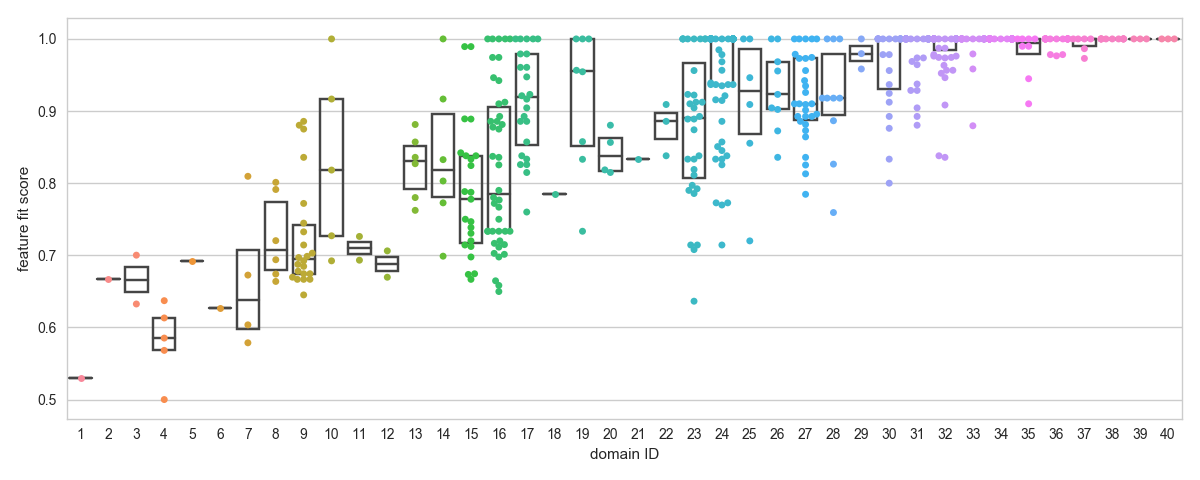
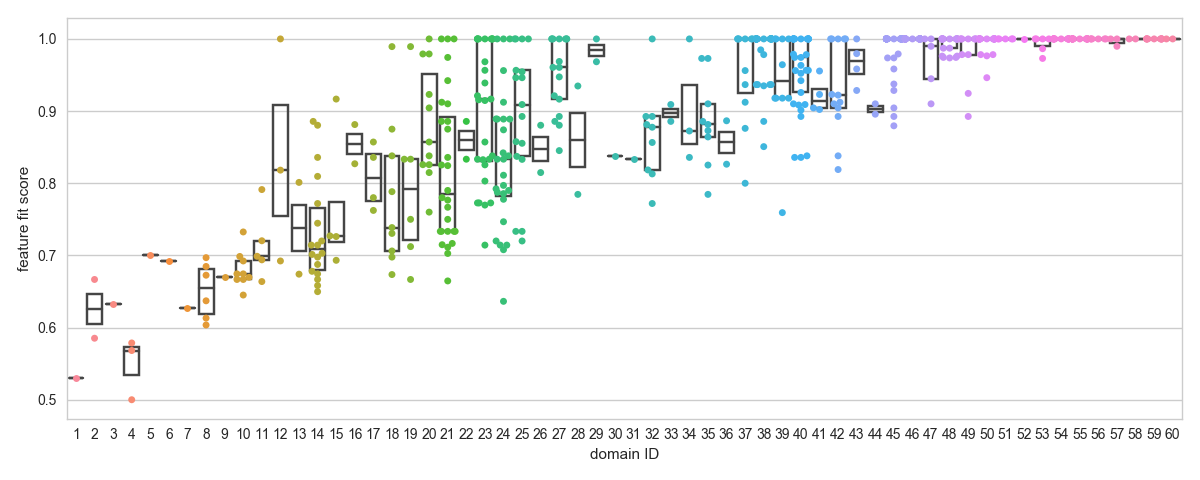
Edited axis labels

diff --git a/subgraphs/feature_fit.py b/subgraphs/feature_fit.py
@@ -45,7 +45,7 @@ elif PIVOT == "cc":
 elif PIVOT == "word2vec":
     INPUT = "../word2vec/GoogleNews-vectors-negative300.bin"
 
-SOURCE = "cslb_cutoff"
+SOURCE = "cslb"
 if SOURCE == "mcrae":
     FEATURES = "../mcrae/CONCS_FEATS_concstats_brm.txt"
 elif SOURCE == "cslb" or SOURCE == "cslb_cutoff":
@@ -69,11 +69,11 @@ CLUSTER_OUTPUT = "%s/clusters.txt" % OUT_DIR
 LOG = "%s/log.txt" % OUT_DIR
 
 if PIVOT == "wikigiga":
-    PIVOT_FORMAL = "Wikipedia+Gigaword"
+    PIVOT_FORMAL = "Wikipedia+Gigaword GloVe"
 elif PIVOT == "cc":
-    PIVOT_FORMAL = "Common Crawl"
+    PIVOT_FORMAL = "Common Crawl GloVe"
 elif PIVOT == "word2vec":
-    PIVOT_FORMAL = "Word2Vec"
+    PIVOT_FORMAL = "Google News word2vec"
 
 if SOURCE == "cslb":
     SOURCE_FORMAL = "CSLB"
@@ -452,8 +452,8 @@ def produce_unified_domain_graph(vocab, features, feature_data, domain_concepts=
     fig = plt.figure()
     #fig.suptitle("unified graph")
     ax = fig.add_subplot(111)
-    ax.set_xlabel("Pearson corr between " + SOURCE_FORMAL + " and " + PIVOT_FORMAL)
-    ax.set_ylabel("Pearson corr between WordNet and " + PIVOT_FORMAL)
+    ax.set_xlabel("ρ(" + PIVOT_FORMAL + "," + SOURCE_FORMAL + ")")
+    ax.set_ylabel("ρ(" + PIVOT_FORMAL + ", WordNet)")
     ax.scatter(xs, ys, c=cs, alpha=0.8)
     for i, d in enumerate(labels):
         ax.annotate(d, (xs[i], ys[i]), fontsize=20)
@@ -468,8 +468,8 @@ def produce_unified_domain_graph(vocab, features, feature_data, domain_concepts=
     fig = plt.figure()
     fig.suptitle("unified graph")
     ax = fig.add_subplot(111)
-    ax.set_xlabel(PEARSON1_NAME)
-    ax.set_ylabel("feature_fit")
+    ax.set_xlabel("ρ(" + PIVOT_FORMAL + "," + SOURCE_FORMAL + ")")
+    ax.set_ylabel("feature fit")
     ax.scatter(xs, zs, c=cs, alpha=0.8)
     for i, d in enumerate(labels):
         ax.annotate(d, (xs[i], zs[i]))
@@ -612,8 +612,8 @@ def produce_unified_graph(vocab, features, feature_data, domain_concepts=None):
     fig = plt.figure()
     #fig.suptitle("unified graph")
     ax = fig.add_subplot(111)
-    ax.set_xlabel("Pearson corr between " + SOURCE_FORMAL + " and " + PIVOT_FORMAL)
-    ax.set_ylabel("Pearson corr between WordNet and " + PIVOT_FORMAL)
+    ax.set_xlabel("ρ(" + PIVOT_FORMAL + "," + SOURCE_FORMAL + ")")
+    ax.set_ylabel("ρ(" + PIVOT_FORMAL + ", WordNet)")
     ax.scatter(xs, ys, c=cs)
     # # plot points of interest in front of other points
     # for _m, _c, _x, _y in zip(markers, colors, xs, ys):
@@ -635,10 +635,9 @@ def produce_unified_graph(vocab, features, feature_data, domain_concepts=None):
     # Plot feature metric vs. Pearson1
 
     fig = plt.figure()
-    fig.suptitle("unified graph")
     ax = fig.add_subplot(111)
-    ax.set_xlabel(PEARSON1_NAME)
-    ax.set_ylabel("feature_fit")
+    ax.set_xlabel("ρ(" + PIVOT_FORMAL + "," + SOURCE_FORMAL + ")")
+    ax.set_ylabel("feature fit")
     ax.scatter(xs, zs, c=cs, alpha=0.8)
 
     plt.tight_layout()
@@ -649,7 +648,6 @@ def produce_unified_graph(vocab, features, feature_data, domain_concepts=None):
     # Plot feature metric vs. Pearson2
 
     fig = plt.figure()
-    fig.suptitle("unified graph")
     ax = fig.add_subplot(111)
     ax.set_xlabel(PEARSON2_NAME)
     ax.set_ylabel("feature_fit")
@@ -670,7 +668,7 @@ def cluster_metric_fn(x, y):
         return emb_dist
     else:
         weight_dist = (x_weight - y_weight) ** 2
-        return emb_dist + 50 * weight_dist
+        return emb_dist + 100 * weight_dist
 
 
 def try_cluster(k, X):

diff --git a/subgraphs/feature_fit_comp.py b/subgraphs/feature_fit_comp.py
@@ -8,45 +8,74 @@ import matplotlib.pyplot as plt
 import os.path
 from scipy import stats
 
-VOCAB = "mcrae"
+VOCAB = "cslb"
 SOURCE1 = "word2vec"
-SOURCE2 = "wikigiga"
+SOURCE2 = "cc"
 FF1 = "./all/feature_fit/%s/%s/features.txt" % (VOCAB, SOURCE1)
 FF2 = "./all/feature_fit/%s/%s/features.txt" % (VOCAB, SOURCE2)
 GRAPH_DIR = "./all/feature_fit/%s/" % VOCAB
+if SOURCE2 == "cc":
+    FORMAL_SOURCE2 = "GloVe (Common Crawl)"
 
 def read_input(f):
     features = []
     values = []
+    cats = []
     file = open(f, 'r')
     for line in file:
-        l = line.split()
+        l = line.split('\t')
         features.append(l[0])
         values.append(float(l[3]))
-    return (features, values)
+        cats.append(l[1])
+    return (features, values, cats)
 
 def main():
-    features1, values1 = read_input(FF1)
-    features2, values2 = read_input(FF2)
+    features1, values1, cats1 = read_input(FF1)
+    features2, values2, cats2 = read_input(FF2)
     assert set(features1) == set(features2)
     xs = [v1 for (f1, v1) in sorted(zip(features1, values1))]
     ys = [v2 for (f2, v2) in sorted(zip(features2, values2))]
+    zs = [c1 for (f1, c1) in sorted(zip(features1, cats1))]
+    sort_feats = sorted(set(zs))
+    # colors_dict = dict(zip(sort_feats, ["Plum", "DarkOrange",
+    #     "SkyBlue", "YellowGreen", "IndianRed"]))
+    colors_dict = dict(zip(sort_feats, ["DarkRed", "DarkRed",
+        "DarkRed", "DarkRed", "DarkRed"]))
+    print(colors_dict)
+    colors = [colors_dict[zs[c]] for c in range(len(zs))]
 
     # Jitter points
     xs += np.random.randn(len(xs)) * 0.001
     ys += np.random.randn(len(ys)) * 0.001
     fig = plt.figure()
     ax = fig.add_subplot(111)
-    ax.set_xlabel(SOURCE1)
-    ax.set_ylabel(SOURCE2)
-    ax.scatter(xs, ys, color="Coral")
+    axes = plt.gca()
+    axes.set_xlim([-0.05,1.05])
+    axes.set_ylim([-0.05,1.05])
+    ax.set_xlabel(SOURCE1 + " feature fit")
+    ax.set_ylabel(FORMAL_SOURCE2 + " feature fit")
+    ax.scatter(xs, ys, color=colors)
     slope, intercept, r_value, p_value, std_err = stats.linregress(xs, ys)
     print("slope", slope, "r", r_value)
-    plt.plot(xs, slope*xs + intercept, '-', color="red")
+    plt.plot(xs, slope*xs + intercept, '-', color="IndianRed", linewidth=2.0)
     plt.tight_layout()
     fig_path = os.path.join(GRAPH_DIR, "%s-%s.png" % (SOURCE1, SOURCE2))
-    fig.savefig(fig_path)
+    plt.savefig(fig_path, bbox_inches='tight')
     plt.close()
+
+    for i in range(len(sort_feats)):
+        fig = plt.figure()
+        plt.title(sort_feats[i])
+        ax = fig.add_subplot(111)
+        ax.set_xlabel(SOURCE1 + " feature fit")
+        ax.set_ylabel(FORMAL_SOURCE2 + " feature fit")
+        for j in range(len(zs)):
+            if zs[j] == sort_feats[i]:
+                ax.scatter(xs[j], ys[j], c=colors_dict[sort_feats[i]])
+        plt.tight_layout()
+        fig_path = os.path.join(GRAPH_DIR, "%s-%s-%s.png" % (sort_feats[i], SOURCE1, SOURCE2))
+        fig.savefig(fig_path)
+        plt.close()
 
 if __name__ == '__main__':
     main()
